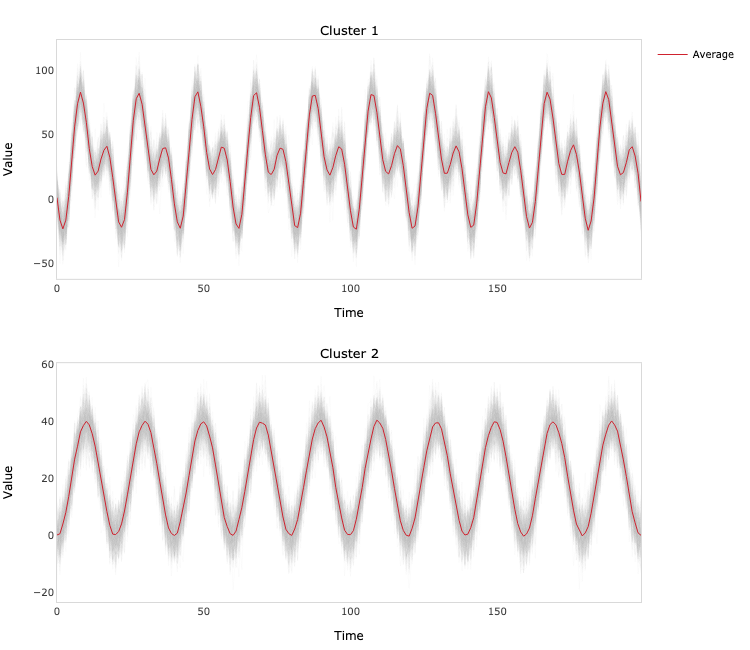
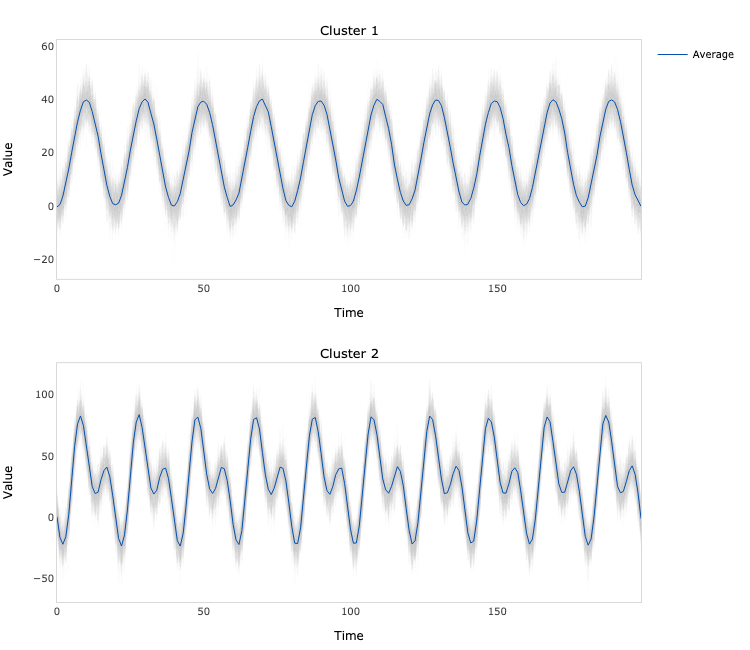
Initial commit

Changed region(s): [[0.0613, 0.1231, 0.8587, 0.4], [0.0613, 0.6154, 0.8587, 0.8615]]

diff --git a/usrl_mts_pytorch/plots.py b/usrl_mts_pytorch/plots.py
@@ -68,7 +68,7 @@ def plot(x, y):
                     showlegend=False,
                     mode='lines',
                     line=dict(
-                        color='rgba(194, 194, 194, 0.5)',
+                        color='rgba(194, 194, 194, 0.4)',
                         width=0.1
                     )
                 ),
@@ -84,7 +84,7 @@ def plot(x, y):
                 legendgroup='Average',
                 mode='lines',
                 line=dict(
-                    color='rgb(207, 34, 46)',
+                    color='#0550ae',
                     width=1
                 )
             ),
